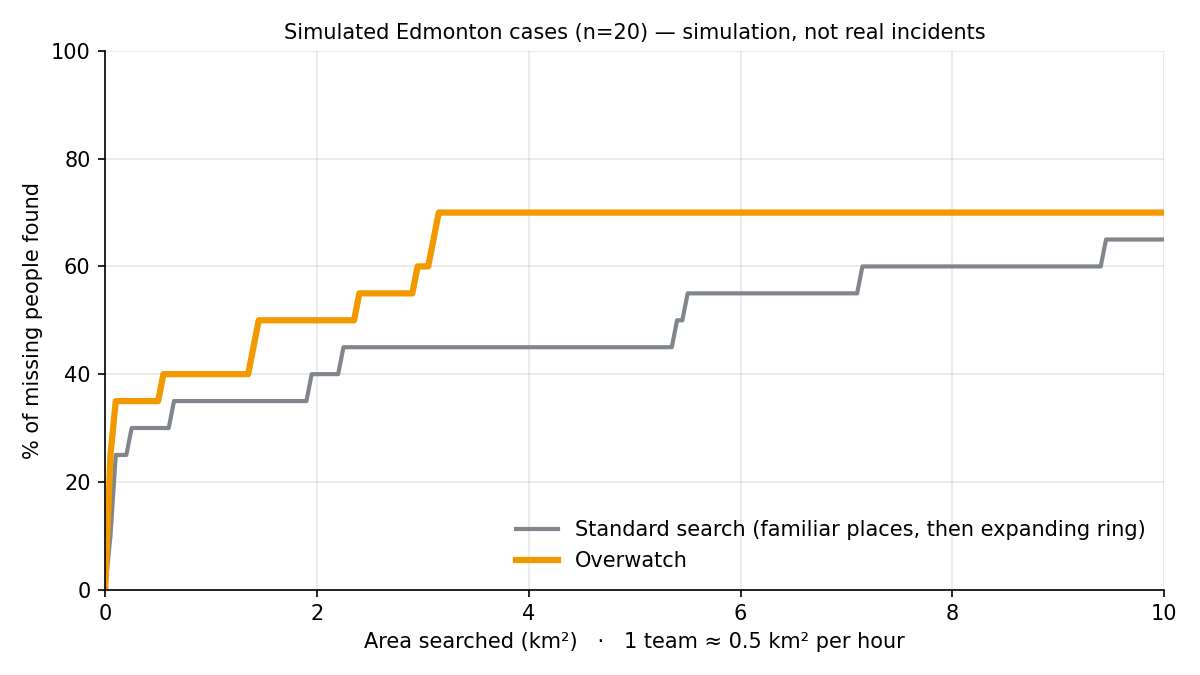
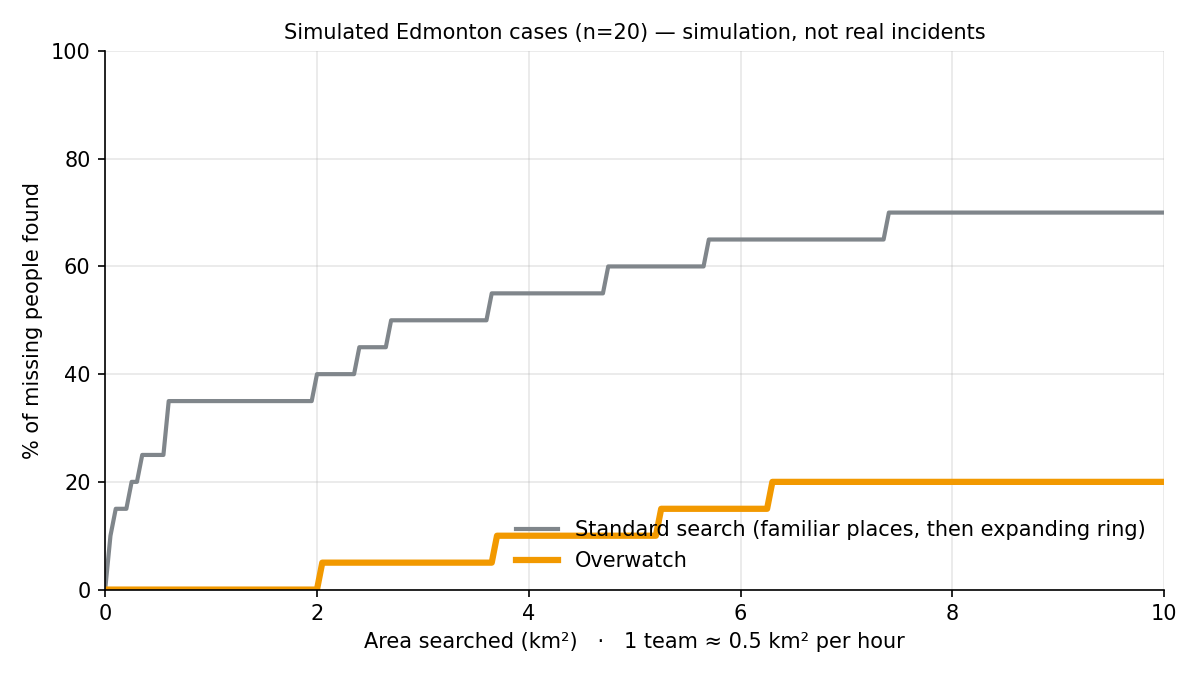
Benchmark runs on backend engine

diff --git a/benchmark/engine_adapter.py b/benchmark/engine_adapter.py
@@ -4,34 +4,118 @@ The ONE place the benchmark talks to the ghost engine.
 Signature (keep it stable):
     predict_ghosts(graph, profile, evidence, at_s, n_ghosts, seed) -> list[[lon, lat, weight]]
 
-`at_s` is seconds after the last_seen time. The return value has the same
-shape as GhostFrame.positions in contracts, so swapping in the real engine is
-a one-function change.
+`at_s` is seconds after the last_seen time (when the search starts). The return
+value has the same shape as GhostFrame.positions in contracts.
 
-Right now this is a STUB engine (simple particle filter using benchmark/walker.py).
-When Rishaan's backend/engine is ready, replace the body of `predict_ghosts`
-with a call into it and set USING_REAL_ENGINE = True. Don't import his internals
-anywhere else in benchmark/.
+Two engines:
+  "backend" : Rishaan's engine through backend/engine/interface.py
+              (reset -> step -> apply evidence in time order -> frame).
+              Whatever engine class he exposes there is what gets benchmarked, so
+              when the real particle filter replaces StubEngine, nothing here changes.
+  "local"   : my own simple walker-based stand-in (benchmark/walker.py).
+              Only for testing the harness. Its numbers are NOT for the pitch,
+              because it moves ghosts the same way the fake people move.
+
+Pick with set_engine("backend" | "local"). Default: backend if importable.
 """
 
 from __future__ import annotations
 
 import math
 import random
+from datetime import timedelta
 
 from contracts_compat import Evidence, SubjectProfile
 from graph import StreetGraph, to_latlon, to_xy
 from walker import WalkParams, walk
 
-USING_REAL_ENGINE = False
+try:
+    from backend.engine import interface as _engine_iface
+    BACKEND_AVAILABLE = True
+except ImportError:
+    _engine_iface = None
+    BACKEND_AVAILABLE = False
+
+ENGINE = "backend" if BACKEND_AVAILABLE else "local"
+STEP_MIN = 2.0  # advance the backend engine in 2-minute steps
 
 
-def _seconds_after(ev: Evidence, last_seen: Evidence) -> float:
-    return (ev.time - last_seen.time).total_seconds()
+def set_engine(name: str) -> None:
+    global ENGINE
+    if name == "backend" and not BACKEND_AVAILABLE:
+        raise RuntimeError("backend/engine not importable. Run from the repo root.")
+    ENGINE = name
+
+
+def engine_name() -> str:
+    if ENGINE == "backend":
+        cls = _backend_engine_class()
+        return f"backend ({cls.__name__})"
+    return "local stand-in (not for the pitch)"
 
 
 def predict_ghosts(graph: StreetGraph, profile: SubjectProfile, evidence: list[Evidence],
                    at_s: float, n_ghosts: int = 1000, seed: int = 0) -> list[list[float]]:
+    if ENGINE == "backend":
+        return _predict_backend(profile, evidence, at_s, n_ghosts, seed)
+    return _predict_local(graph, profile, evidence, at_s, n_ghosts, seed)
+
+
+# ------------------------------------------------------------------ backend engine
+def _backend_engine_class():
+    """Prefer a real engine if Rishaan exposes one in interface.py, else StubEngine."""
+    for name in ("Engine", "ParticleEngine", "GhostEngine", "StubEngine"):
+        cls = getattr(_engine_iface, name, None)
+        if cls is not None:
+            return cls
+    raise RuntimeError("No engine class found in backend/engine/interface.py")
+
+
+def _make_backend_engine(n_ghosts: int, seed: int):
+    cls = _backend_engine_class()
+    try:
+        return cls(n_ghosts=n_ghosts, seed=seed)
+    except TypeError:
+        return cls()
+
+
+def _predict_backend(profile, evidence, at_s, n_ghosts, seed):
+    start = profile.last_seen_time or min(e.time for e in evidence)
+    end = start + timedelta(seconds=at_s)
+    eng = _make_backend_engine(n_ghosts, seed)
+    eng.reset(profile, start)
+
+    now = start
+    def advance_to(t):
+        nonlocal now
+        while now < t:
+            mins = min(STEP_MIN, (t - now).total_seconds() / 60)
+            if mins <= 1e-6:
+                break
+            eng.step(mins)
+            now += timedelta(minutes=mins)
+
+    # feed evidence in time order, exactly like a live search would
+    for ev in sorted((e for e in evidence if e.kind != "last_seen"), key=lambda e: e.time):
+        if ev.time > end:
+            continue
+        advance_to(ev.time)
+        eng.apply(ev)
+    advance_to(end)
+
+    positions = [list(p) for p in eng.frame().positions]
+    total = sum(p[2] for p in positions) or 1.0
+    for p in positions:
+        p[2] /= total
+    return positions
+
+
+# ------------------------------------------------------------------ local stand-in
+def _seconds_after(ev: Evidence, last_seen: Evidence) -> float:
+    return (ev.time - last_seen.time).total_seconds()
+
+
+def _predict_local(graph, profile, evidence, at_s, n_ghosts, seed):
     rnd = random.Random(seed)
     last_seen = next(e for e in evidence if e.kind == "last_seen")
     sx, sy = to_xy(last_seen.location.lat, last_seen.location.lon)
@@ -43,10 +127,10 @@ def predict_ghosts(graph: StreetGraph, profile: SubjectProfile, evidence: list[E
     sightings = [e for e in evidence if e.kind == "sighting" and e.location and e.confirmed]
     positions = []
     for _ in range(n_ghosts):
-        p = params.perturbed(rnd)          # each ghost is a slightly different version of them
+        p = params.perturbed(rnd)
         track = walk(graph, start, at_s, p, favourites or graph.places, rnd)
         w = 1.0
-        for s in sightings:                # evidence reweights ghosts that couldn't be there
+        for s in sightings:
             gx, gy = track.position(graph, _seconds_after(s, last_seen))
             ex, ey = to_xy(s.location.lat, s.location.lon)
             r = s.radius_m or 150.0

diff --git a/benchmark/run_benchmark.py b/benchmark/run_benchmark.py
@@ -62,17 +62,28 @@ def ring_order(cells, cx: float, cy: float):
 
 
 def overwatch_order(cells, ghosts):
+    """Most likely cells first. Ghost mass is smoothed over neighbouring cells
+    (1000 ghosts are sparse), and ties are broken by distance from the ghost
+    centroid so sparse areas are searched outward, not in random order."""
     mass: dict[tuple[int, int], float] = {}
-    sx = sy = 0.0
+    sx = sy = tw = 0.0
     for lon, lat, w in ghosts:
         x, y = to_xy(lat, lon)
         c = cell_of(x, y)
         mass[c] = mass.get(c, 0.0) + w
-        sx, sy = sx + w * x, sy + w * y
-    hot = sorted(mass, key=mass.get, reverse=True)
+        sx, sy, tw = sx + w * x, sy + w * y, tw + w
+    cx, cy = (sx / tw, sy / tw) if tw else (0.0, 0.0)
+    score: dict[tuple[int, int], float] = {}
+    for (i, j), m in mass.items():
+        for di in (-1, 0, 1):
+            for dj in (-1, 0, 1):
+                k = (i + di, j + dj)
+                score[k] = score.get(k, 0.0) + m * (1.0 if di == dj == 0 else 0.35)
+    dist = lambda c: math.hypot((c[0] + 0.5) * CELL_M - cx, (c[1] + 0.5) * CELL_M - cy)
+    valid = set(cells)
+    hot = sorted((c for c in score if c in valid), key=lambda c: (-round(score[c], 9), dist(c)))
     hot_set = set(hot)
-    rest = [c for c in ring_order(cells, sx, sy) if c not in hot_set]  # then spread out from centroid
-    return hot + rest
+    return hot + [c for c in ring_order(cells, cx, cy) if c not in hot_set]
 
 
 def area_to_find(order, target_cell, detect_rolls) -> float | None:
@@ -164,14 +175,18 @@ def main():
     ap.add_argument("--ghosts", type=int, default=1000)
     ap.add_argument("--graph", default=None, help="GraphML from data/ (default: synthetic grid)")
     ap.add_argument("--seed", type=int, default=1)
+    ap.add_argument("--engine", choices=["backend", "local"], default=None,
+                    help="backend = Rishaan's engine (default if available); local = test stand-in")
     ap.add_argument("--out", default=os.path.join(os.path.dirname(os.path.abspath(__file__)), "results"))
     args = ap.parse_args()
     os.makedirs(args.out, exist_ok=True)
 
+    if args.engine:
+        engine_adapter.set_engine(args.engine)
     graph = load_graph(args.graph)
     cells = all_cells(graph)
     print(f"graph: {graph.n} nodes, {len(cells)} cells | real contracts: {USING_REAL_CONTRACTS} | "
-          f"real engine: {engine_adapter.USING_REAL_ENGINE}")
+          f"engine: {engine_adapter.engine_name()}")
 
     rows, start = [], time.time()
     for i in range(args.cases):
@@ -204,7 +219,7 @@ def main():
     summary = summarize(rows, ["overwatch", "standard_search"])
     summary["settings"] = {"cases": args.cases, "ghosts": args.ghosts, "cell_m": CELL_M, "pod": POD,
                            "team_km2_per_hour": TEAM_KM2_PER_HOUR, "graph": args.graph or "synthetic",
-                           "real_engine": engine_adapter.USING_REAL_ENGINE,
+                           "engine": engine_adapter.engine_name(),
                            "note": "Simulation only. Not data from real incidents."}
     with open(os.path.join(args.out, "summary.json"), "w") as f:
         json.dump(summary, f, indent=2)

diff --git a/benchmark/cases.py b/benchmark/cases.py
@@ -46,13 +46,13 @@ def make_case(graph: StreetGraph, seed: int) -> BenchCase:
     cid = f"BENCH-{seed:05d}"
     condition = rnd.choices(["dementia", "other"], weights=[0.8, 0.2])[0]
     mobility = rnd.choices(["low", "medium", "high"], weights=[0.35, 0.5, 0.15])[0]
-    profile = SubjectProfile(case_id=cid, name="Simulated subject", age=rnd.randint(68, 90),
-                             condition=condition, mobility=mobility,
-                             clothing=["blue puffer jacket"], notes="benchmark case")
-
     # start somewhere central-ish so paths stay on the map
     central = [i for i, (x, y) in enumerate(graph.xy) if math.hypot(x, y) < 1200]
     start = rnd.choice(central)
+    profile = SubjectProfile(case_id=cid, name="Simulated subject", age=rnd.randint(68, 90),
+                             condition=condition, mobility=mobility,
+                             clothing=["blue puffer jacket"], notes="benchmark case",
+                             last_seen=_pt(graph, start), last_seen_time=T0)
     favourites = rnd.sample(graph.places, k=rnd.randint(1, 3))
     report_delay_s = rnd.uniform(60, 180) * 60          # reported 1-3 h after last seen
 

diff --git a/benchmark/contracts_compat.py b/benchmark/contracts_compat.py
@@ -51,8 +51,10 @@ except ImportError:  # contracts/ not available yet -> local copy of Section 6
         age: int
         condition: Literal["dementia", "child", "hiker", "mental_health", "other"]
         mobility: Literal["low", "medium", "high"]
-        clothing: list[str]
-        notes: str
+        clothing: list[str] = []
+        notes: str = ""
+        last_seen: GeoPoint | None = None
+        last_seen_time: datetime | None = None
 
     class Cluster(BaseModel):
         id: str
